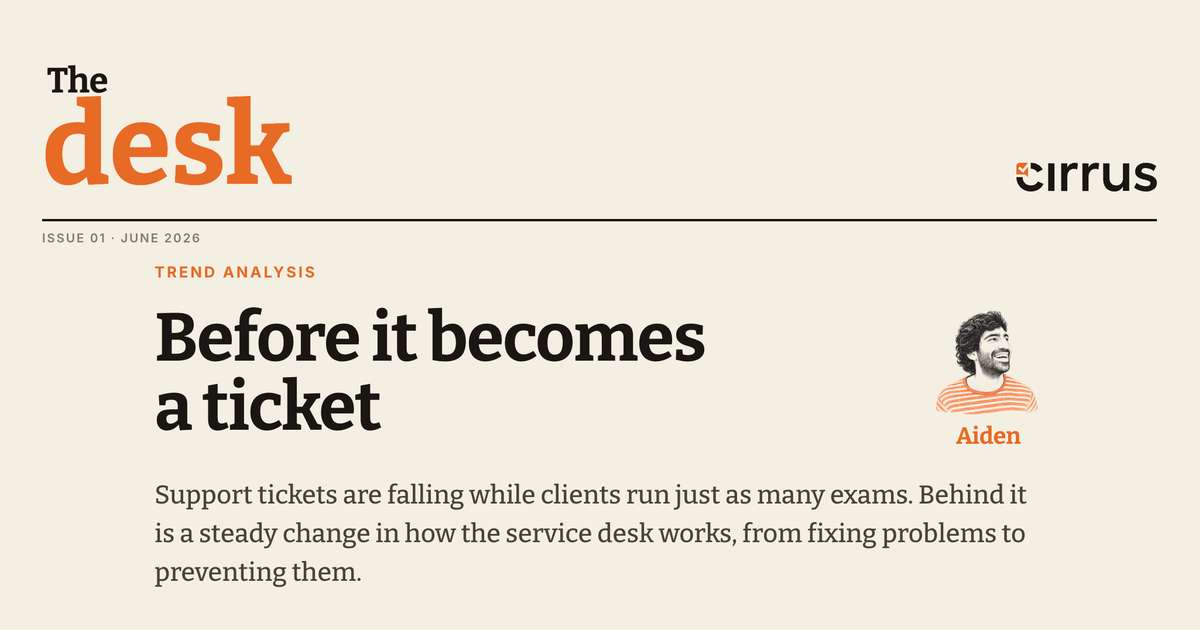
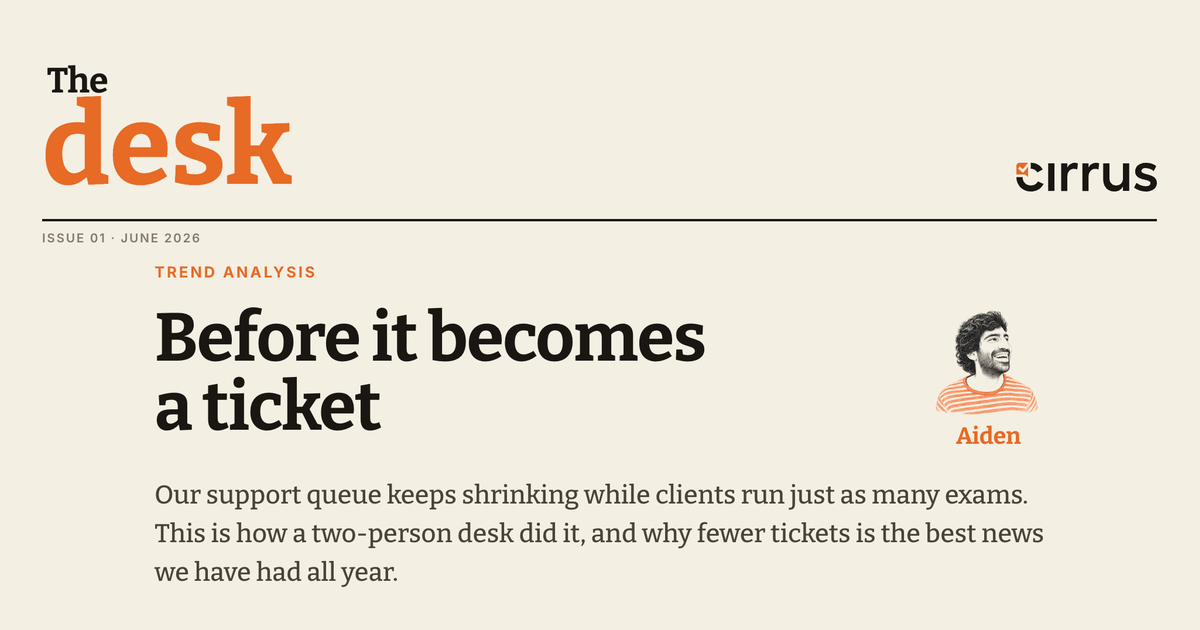
Rewrite issue 01 in the desk's own voice; refresh preview and description

Changed region(s): [[0.1233, 0.754, 0.8633, 0.9349]]

diff --git a/index.html b/index.html
@@ -15,15 +15,15 @@
 <meta property="og:type" content="website">
 <meta property="og:site_name" content="The desk">
 <meta property="og:title" content="Before it becomes a ticket">
-<meta property="og:description" content="Support tickets are falling while clients run just as many exams. How the service desk shifted from fixing problems to preventing them.">
-<meta property="og:image" content="https://cirrus-assessment.github.io/the-desk/2026-06/og.png?v=3">
+<meta property="og:description" content="Our support queue keeps shrinking while clients run just as many exams. This is how a two-person desk did it, and why fewer tickets is the best news we have had all year.">
+<meta property="og:image" content="https://cirrus-assessment.github.io/the-desk/2026-06/og.png?v=4">
 <meta property="og:image:width" content="1200">
 <meta property="og:image:height" content="630">
 <meta property="og:url" content="https://cirrus-assessment.github.io/the-desk/">
 <meta name="twitter:card" content="summary_large_image">
 <meta name="twitter:title" content="Before it becomes a ticket · The desk">
-<meta name="twitter:description" content="Support tickets are falling while clients run just as many exams. How the service desk shifted from fixing problems to preventing them.">
-<meta name="twitter:image" content="https://cirrus-assessment.github.io/the-desk/2026-06/og.png?v=3">
+<meta name="twitter:description" content="Our support queue keeps shrinking while clients run just as many exams. This is how a two-person desk did it, and why fewer tickets is the best news we have had all year.">
+<meta name="twitter:image" content="https://cirrus-assessment.github.io/the-desk/2026-06/og.png?v=4">
 
 <style>html,body{margin:0;height:100%;background:#F4EFE3;font-family:system-ui,-apple-system,sans-serif;color:#1A1612}body{display:flex;align-items:center;justify-content:center;text-align:center}a{color:#E76A25;text-decoration:none}</style>
 </head>

diff --git a/2026-06/index.html b/2026-06/index.html
@@ -13,15 +13,15 @@
 <meta property="og:type" content="article">
 <meta property="og:site_name" content="The desk">
 <meta property="og:title" content="Before it becomes a ticket">
-<meta property="og:description" content="Support tickets are falling while clients run just as many exams. How the service desk shifted from fixing problems to preventing them.">
-<meta property="og:image" content="https://cirrus-assessment.github.io/the-desk/2026-06/og.png?v=3">
+<meta property="og:description" content="Our support queue keeps shrinking while clients run just as many exams. This is how a two-person desk did it, and why fewer tickets is the best news we have had all year.">
+<meta property="og:image" content="https://cirrus-assessment.github.io/the-desk/2026-06/og.png?v=4">
 <meta property="og:image:width" content="1200">
 <meta property="og:image:height" content="630">
 <meta property="og:url" content="https://cirrus-assessment.github.io/the-desk/2026-06/">
 <meta name="twitter:card" content="summary_large_image">
 <meta name="twitter:title" content="Before it becomes a ticket · The desk">
-<meta name="twitter:description" content="Support tickets are falling while clients run just as many exams. How the service desk shifted from fixing problems to preventing them.">
-<meta name="twitter:image" content="https://cirrus-assessment.github.io/the-desk/2026-06/og.png?v=3">
+<meta name="twitter:description" content="Our support queue keeps shrinking while clients run just as many exams. This is how a two-person desk did it, and why fewer tickets is the best news we have had all year.">
+<meta name="twitter:image" content="https://cirrus-assessment.github.io/the-desk/2026-06/og.png?v=4">
 
 <style>html,body{margin:0;height:100%;background:#F4EFE3}iframe{border:0;width:100%;height:100%;display:block}</style>
 </head>
